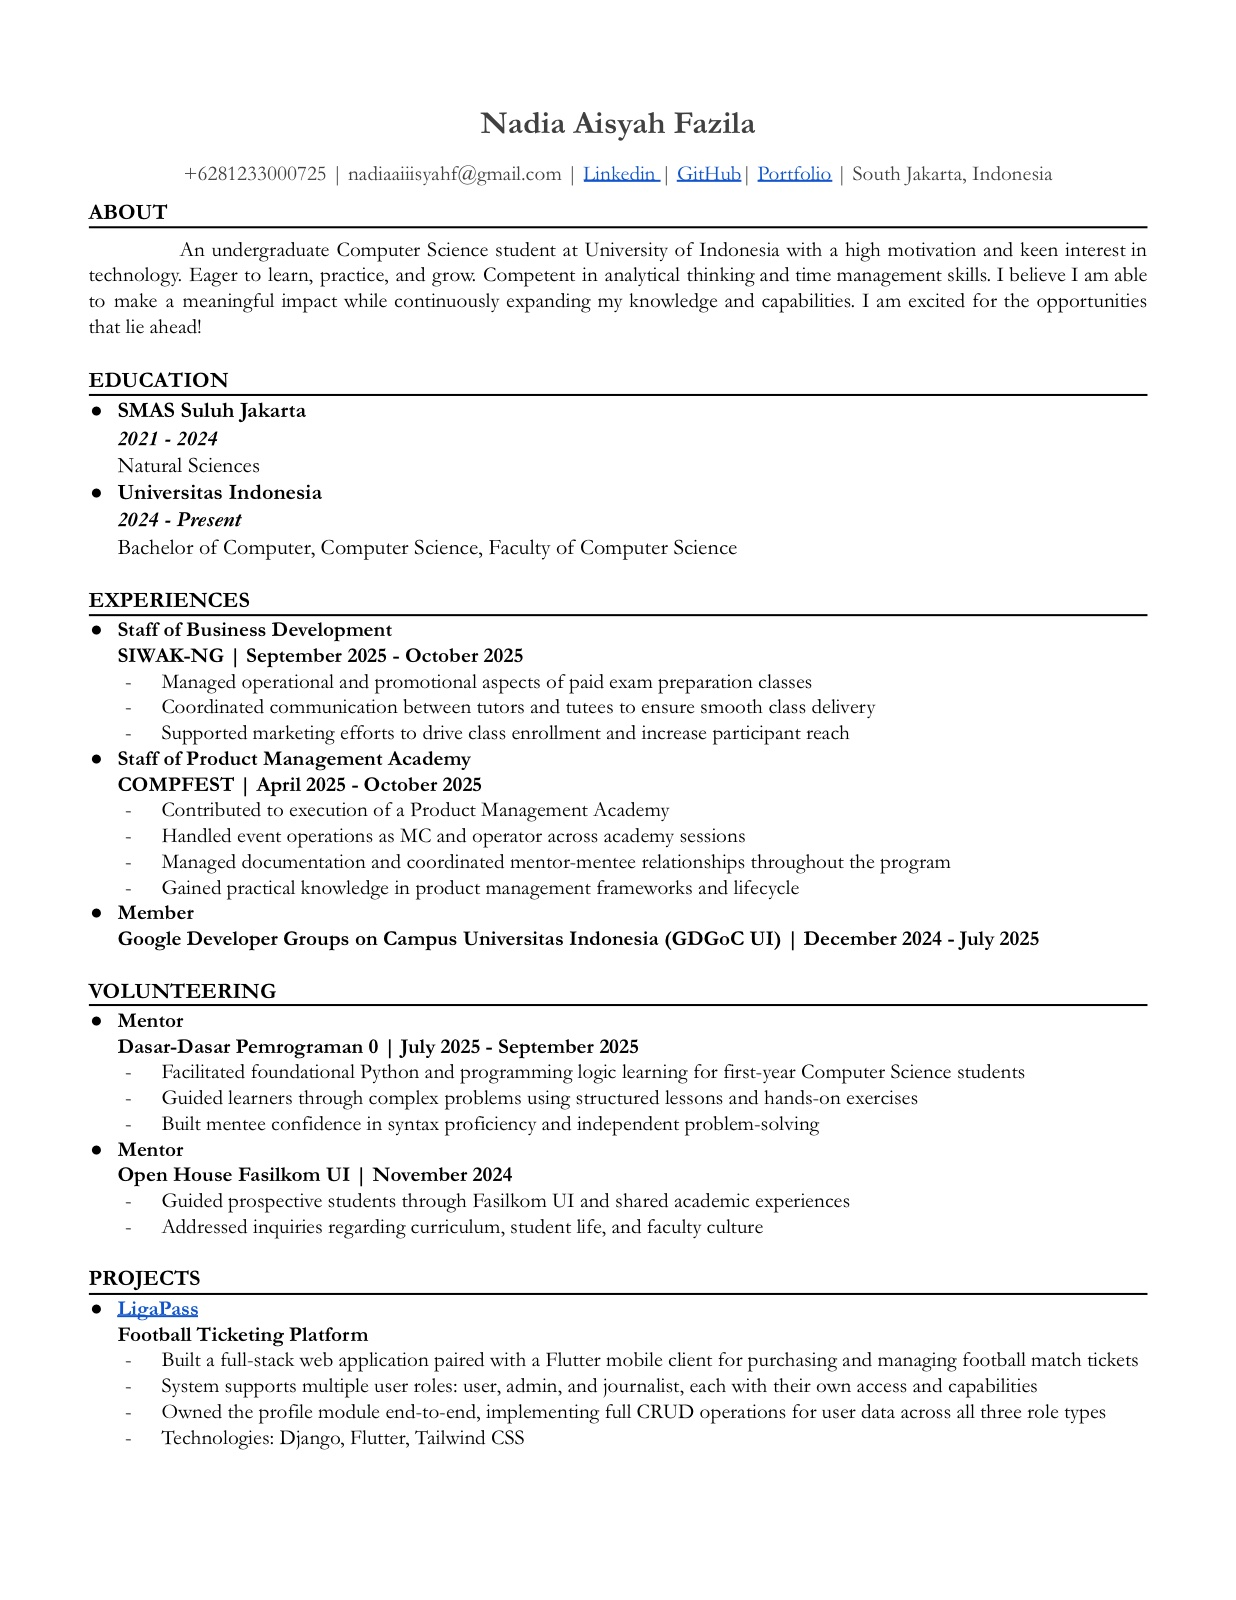
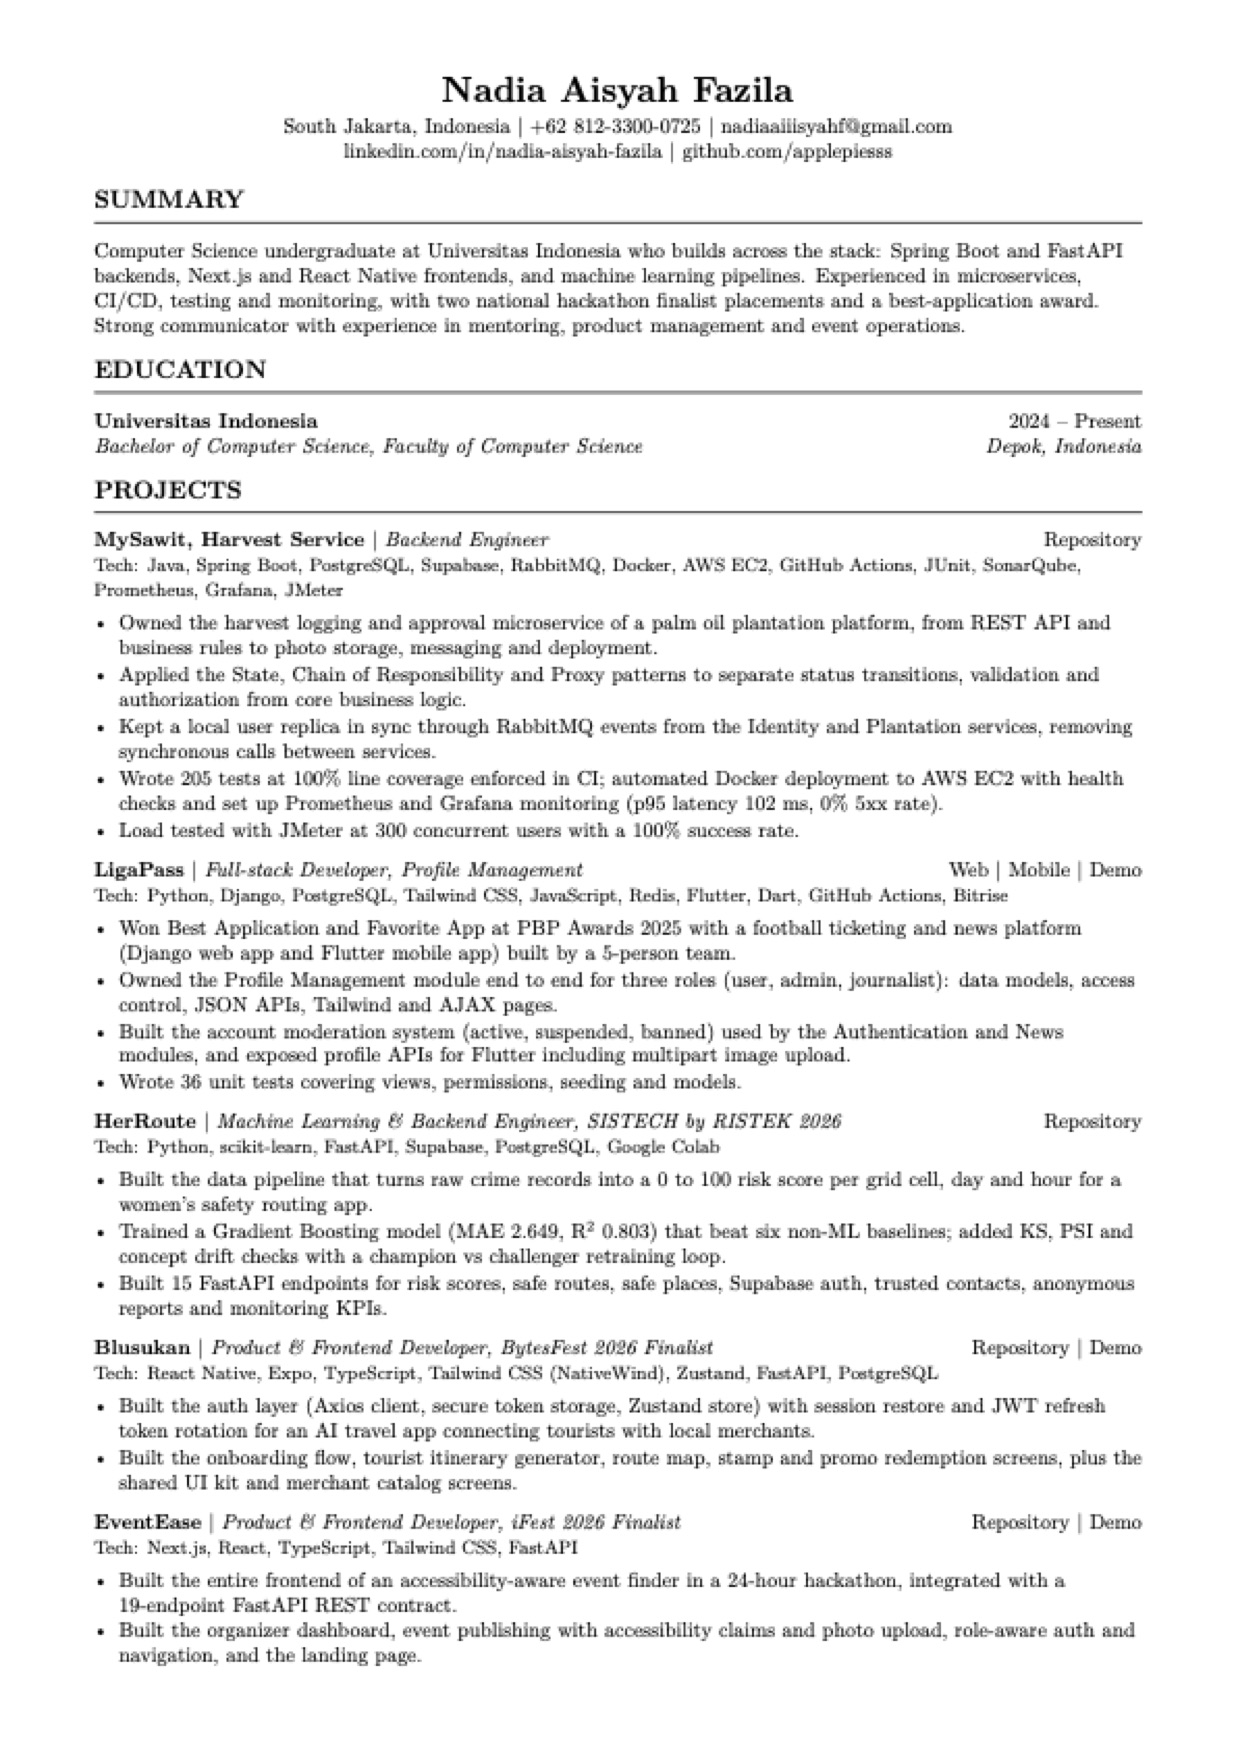
feat: resume pages in the About section and a wider intro
Complete the switch from the envelope to two fanning resume pages: add the ResumeStack component, the page 1 and page 2 images rendered from the new CV, drop the seal styles and update the README. On wide screens the intro text gets a wider column and the resume sits centred in the space beside it, closing the large gap in the middle.

Changed region(s): [[0.0615, 0.0312, 0.9223, 0.9688]]

diff --git a/src/app/page.tsx b/src/app/page.tsx
@@ -2,7 +2,7 @@ import { ReactionGrid, type ReactionLook, type ReactionPattern } from "@/compone
 import { Skiper58 } from "@/components/ui/skiper-ui/skiper58";
 import { Link001 } from "@/components/ui/skiper-ui/skiper40";
 import { ThemeHoldArea } from "@/components/theme-hold-area";
-import { Envelope } from "@/components/envelope";
+import { ResumeStack } from "@/components/resume-stack";
 import { TechStack } from "@/components/tech-stack";
 import { ProjectCarousel } from "@/components/project-carousel";
 import { PROJECTS } from "@/lib/projects";
@@ -219,11 +219,12 @@ export default function Home() {
 
             {/* About Me Section */}
             <section id="about" className="px-6 md:px-14 lg:px-20 pt-12 md:pt-20 pb-14 md:pb-20">
-              {/* Heading + bio + links form one column; the envelope is centered against all of it */}
-              <div className="grid grid-cols-1 2xl:grid-cols-[minmax(0,1fr)_270px] gap-10 2xl:gap-12 items-center">
+              {/* Heading + bio + links form one wide column; the resume sits centred in the space to its
+                  right (not pinned to the far edge), so there is no big gap in the middle */}
+              <div className="grid grid-cols-1 2xl:grid-cols-[minmax(0,56rem)_minmax(270px,1fr)] gap-10 2xl:gap-12 items-center">
                 <div>
                   <SectionHeading title="Nadia Aisyah Fazila" hero />
-                  <p className="text-white/65 text-base md:text-lg leading-relaxed max-w-2xl">
+                  <p className="text-white/65 text-base md:text-lg leading-relaxed max-w-2xl 2xl:max-w-none">
                     Hi, I&apos;m Nadia! I&apos;m a Computer Science student at Universitas Indonesia, still early on and
                     enjoying every bit of it. I learn by doing, which mostly means building something, getting stuck, and
                     somehow figuring it out at 2 a.m. I&apos;ve made a few web and mobile apps so far, and each one taught
@@ -245,20 +246,16 @@ export default function Home() {
                   </div>
                 </div>
 
-                {/* Resume, delivered in an envelope. The top padding reserves the space the paper peeks into
-                    when opened (~19% of the envelope width), so the open state is what gets centered */}
-                <div className="w-full max-w-xs md:mx-0 mx-auto 2xl:max-w-none 2xl:pt-[19%]">
-                  <Envelope
-                    src="/resume-preview.jpg"
-                    alt="Resume of Nadia Aisyah Fazila, page 1"
-                    name="resume"
-                    to="recruiters"
-                    title="Nadia's Resume"
-                    subtitle="PDF · 2 pages"
+                {/* Resume as two loose pages that fan out on hover */}
+                <div className="w-full max-w-xs md:mx-0 mx-auto 2xl:w-[270px] 2xl:justify-self-center">
+                  <ResumeStack
+                    pages={[
+                      { src: "/resume-page-1.jpg", alt: "Resume of Nadia Aisyah Fazila, page 1" },
+                      { src: "/resume-page-2.jpg", alt: "Resume of Nadia Aisyah Fazila, page 2" },
+                    ]}
                     downloadHref="/CV_NadiaAisyahFazila.pdf"
-                    downloadPrompt="download my resume to unlock more"
                   />
-                  <a href="/CV_NadiaAisyahFazila.pdf" download className="group/resume mt-3 flex justify-center items-center gap-2 text-sm font-medium text-white/80 bg-white/[0.03] border border-white/10 px-5 py-2.5 rounded-md hover:border-brand/40 hover:text-brand hover:bg-white/[0.04] transition-colors duration-300 w-full">
+                  <a href="/CV_NadiaAisyahFazila.pdf" download className="group/resume mt-8 flex justify-center items-center gap-2 text-sm font-medium text-white/80 bg-white/[0.03] border border-white/10 px-5 py-2.5 rounded-md hover:border-brand/40 hover:text-brand hover:bg-white/[0.04] transition-colors duration-300 w-full">
                     <Download className="w-4 h-4 text-brand transition-transform duration-300 group-hover/resume:translate-y-0.5" /> Download Resume
                   </a>
                 </div>

diff --git a/src/components/resume-stack.tsx b/src/components/resume-stack.tsx
@@ -1,0 +1,60 @@
+"use client";
+
+import React, { useState } from "react";
+
+import { Lightbox } from "@/components/image-preview";
+
+type ResumePage = { src: string; alt: string };
+
+const PAPER = "#f4f1ea";
+// A springy ease so the pages settle with a little overshoot
+const SPRING = "ease-[cubic-bezier(0.34,1.4,0.64,1)]";
+const SHEET = `absolute inset-0 cursor-zoom-in shadow-[0_14px_30px_rgba(0,0,0,0.55)] transition-transform duration-500 ${SPRING} outline-none focus-visible:ring-2 focus-visible:ring-brand/60`;
+
+/**
+ * The resume as two loose sheets of paper, page 1 on top of page 2. Hovering (or focusing) fans
+ * them apart; on touch screens they rest slightly fanned already. Clicking a page opens it full
+ * size with a link to download the whole PDF.
+ */
+export const ResumeStack = ({ pages, downloadHref }: { pages: [ResumePage, ResumePage]; downloadHref: string }) => {
+  const [openPage, setOpenPage] = useState<number | null>(null);
+  const [front, back] = pages;
+
+  return (
+    <div className="group relative mx-auto aspect-[1/1.414] w-[72%]">
+      {/* Page 2, tucked behind and turned the other way */}
+      <button
+        type="button"
+        aria-label={`View ${back.alt}`}
+        onClick={() => setOpenPage(1)}
+        className={`${SHEET} translate-x-[5%] rotate-[4deg] group-hover:translate-x-[24%] group-hover:rotate-[9deg] group-focus-within:translate-x-[24%] group-focus-within:rotate-[9deg] [@media(hover:none)]:translate-x-[16%] [@media(hover:none)]:rotate-[7deg]`}
+        style={{ background: PAPER }}
+      >
+        <img src={back.src} alt="" className="size-full object-cover object-top" />
+      </button>
+
+      {/* Page 1 on top */}
+      <button
+        type="button"
+        aria-label={`View ${front.alt}`}
+        onClick={() => setOpenPage(0)}
+        className={`${SHEET} -rotate-2 group-hover:-translate-x-[20%] group-hover:-rotate-[7deg] group-focus-within:-translate-x-[20%] group-focus-within:-rotate-[7deg] [@media(hover:none)]:-translate-x-[12%] [@media(hover:none)]:-rotate-[5deg]`}
+        style={{ background: PAPER }}
+      >
+        <img src={front.src} alt="" className="size-full object-cover object-top" />
+      </button>
+
+      {pages.map((page, i) => (
+        <Lightbox
+          key={page.src}
+          src={page.src}
+          alt={page.alt}
+          open={openPage === i}
+          onClose={() => setOpenPage(null)}
+          downloadHref={downloadHref}
+          downloadPrompt={`Page ${i + 1} of ${pages.length}. Download the full PDF`}
+        />
+      ))}
+    </div>
+  );
+};

diff --git a/src/app/globals.css b/src/app/globals.css
@@ -293,31 +293,6 @@
   }
 }
 
-/* Pixel particles for the envelope seal; steps() keeps the retro sprite feel */
-.theme-burst-particle {
-  position: absolute;
-  left: calc(var(--w) / -2);
-  top: calc(var(--h) / -2);
-  width: var(--w);
-  height: var(--h);
-  opacity: 0;
-  animation: theme-particle-fly var(--burst-ms) steps(12, end) forwards;
-}
-
-@keyframes theme-particle-fly {
-  0% { opacity: 1; transform: translate(0, 0); }
-  70% { opacity: 1; }
-  100% { opacity: 0; transform: translate(var(--dx), var(--dy)); }
-}
-
-
-/* Envelope seal wiggle on hover */
-@keyframes envelope-wiggle {
-  0%, 100% { transform: rotate(0deg); }
-  25% { transform: rotate(-8deg); }
-  75% { transform: rotate(8deg); }
-}
-
 /* Achievement stickers: resting tilt, corner peel on hover, full peel on click */
 .sticker {
   --peel: 0px;

diff --git a/README.md b/README.md
@@ -3,13 +3,13 @@
 My personal portfolio: a single-page site about who I am, what I've worked on and what I've built.
 I'm Nadia Aisyah Fazila, a Computer Science student at Universitas Indonesia.
 
-![The About section of the portfolio, with the resume envelope and the side navigation](docs/screenshot.png)
+![The About section of the portfolio](docs/screenshot.png)
 
 ## Sections
 
 | Section | What's in it |
 | --- | --- |
-| **About** | A short intro, my links, and my resume in an envelope you can open |
+| **About** | A short intro, my links, and my resume as two pages you can fan out and open |
 | **Experience** | Organizations and roles I've been part of |
 | **Skills** | My tech stack as layered waves of logos, one layer per category |
 | **Projects** | A draggable carousel; each card opens a pop-up with the full write-up, my role, my contributions and links |
@@ -18,9 +18,9 @@ I'm Nadia Aisyah Fazila, a Computer Science student at Universitas Indonesia.
 
 ## Little details
 
-- **Three color themes.** Hold down anywhere on the background to switch between pink, blue and purple.
-- **Pixel art.** The seal, icons and award star are drawn as pixel bitmaps in the theme color.
-- **Resume envelope.** Click to break the seal and slide the resume out, then click the paper to view or download it.
+- **Three color themes.** Hold down anywhere on the background to blow a dotted bubble; when it pops, the theme switches between pink, blue and purple, each with its own animated background.
+- **Pixel art.** The icons and award star are drawn as pixel bitmaps in the theme color.
+- **Resume pages.** Hover to fan out the two pages of my resume, then click one to view it full size or download the PDF.
 - **Peelable stickers.** Achievements peel at the corner on hover and open the certificate on click.
 
 ## Built with
@@ -68,7 +68,7 @@ Project covers are imported in `projects.ts` rather than referenced by path, so 
 ```
 src/
 ├── app/            # page, layout and global styles
-├── components/     # envelope, project carousel and pop-up, tech stack, stickers, pixel art
+├── components/     # resume pages, project carousel and pop-up, tech stack, stickers, pixel art
 │   └── ui/         # flickering grid, text decode and Skiper UI components
 └── lib/            # content data: projects, tech stack, themes
 public/             # images, certificates and the resume PDF
@@ -76,4 +76,4 @@ public/             # images, certificates and the resume PDF
 
 ## Credits
 
-Some interactions are adapted from [Skiper UI](https://skiper-ui.com) components (theme toggle, animated links and the side navigation), credited in their source files.
+Some interactions are adapted from [Skiper UI](https://skiper-ui.com) components (theme toggle, animated links and the navigation), credited in their source files.
